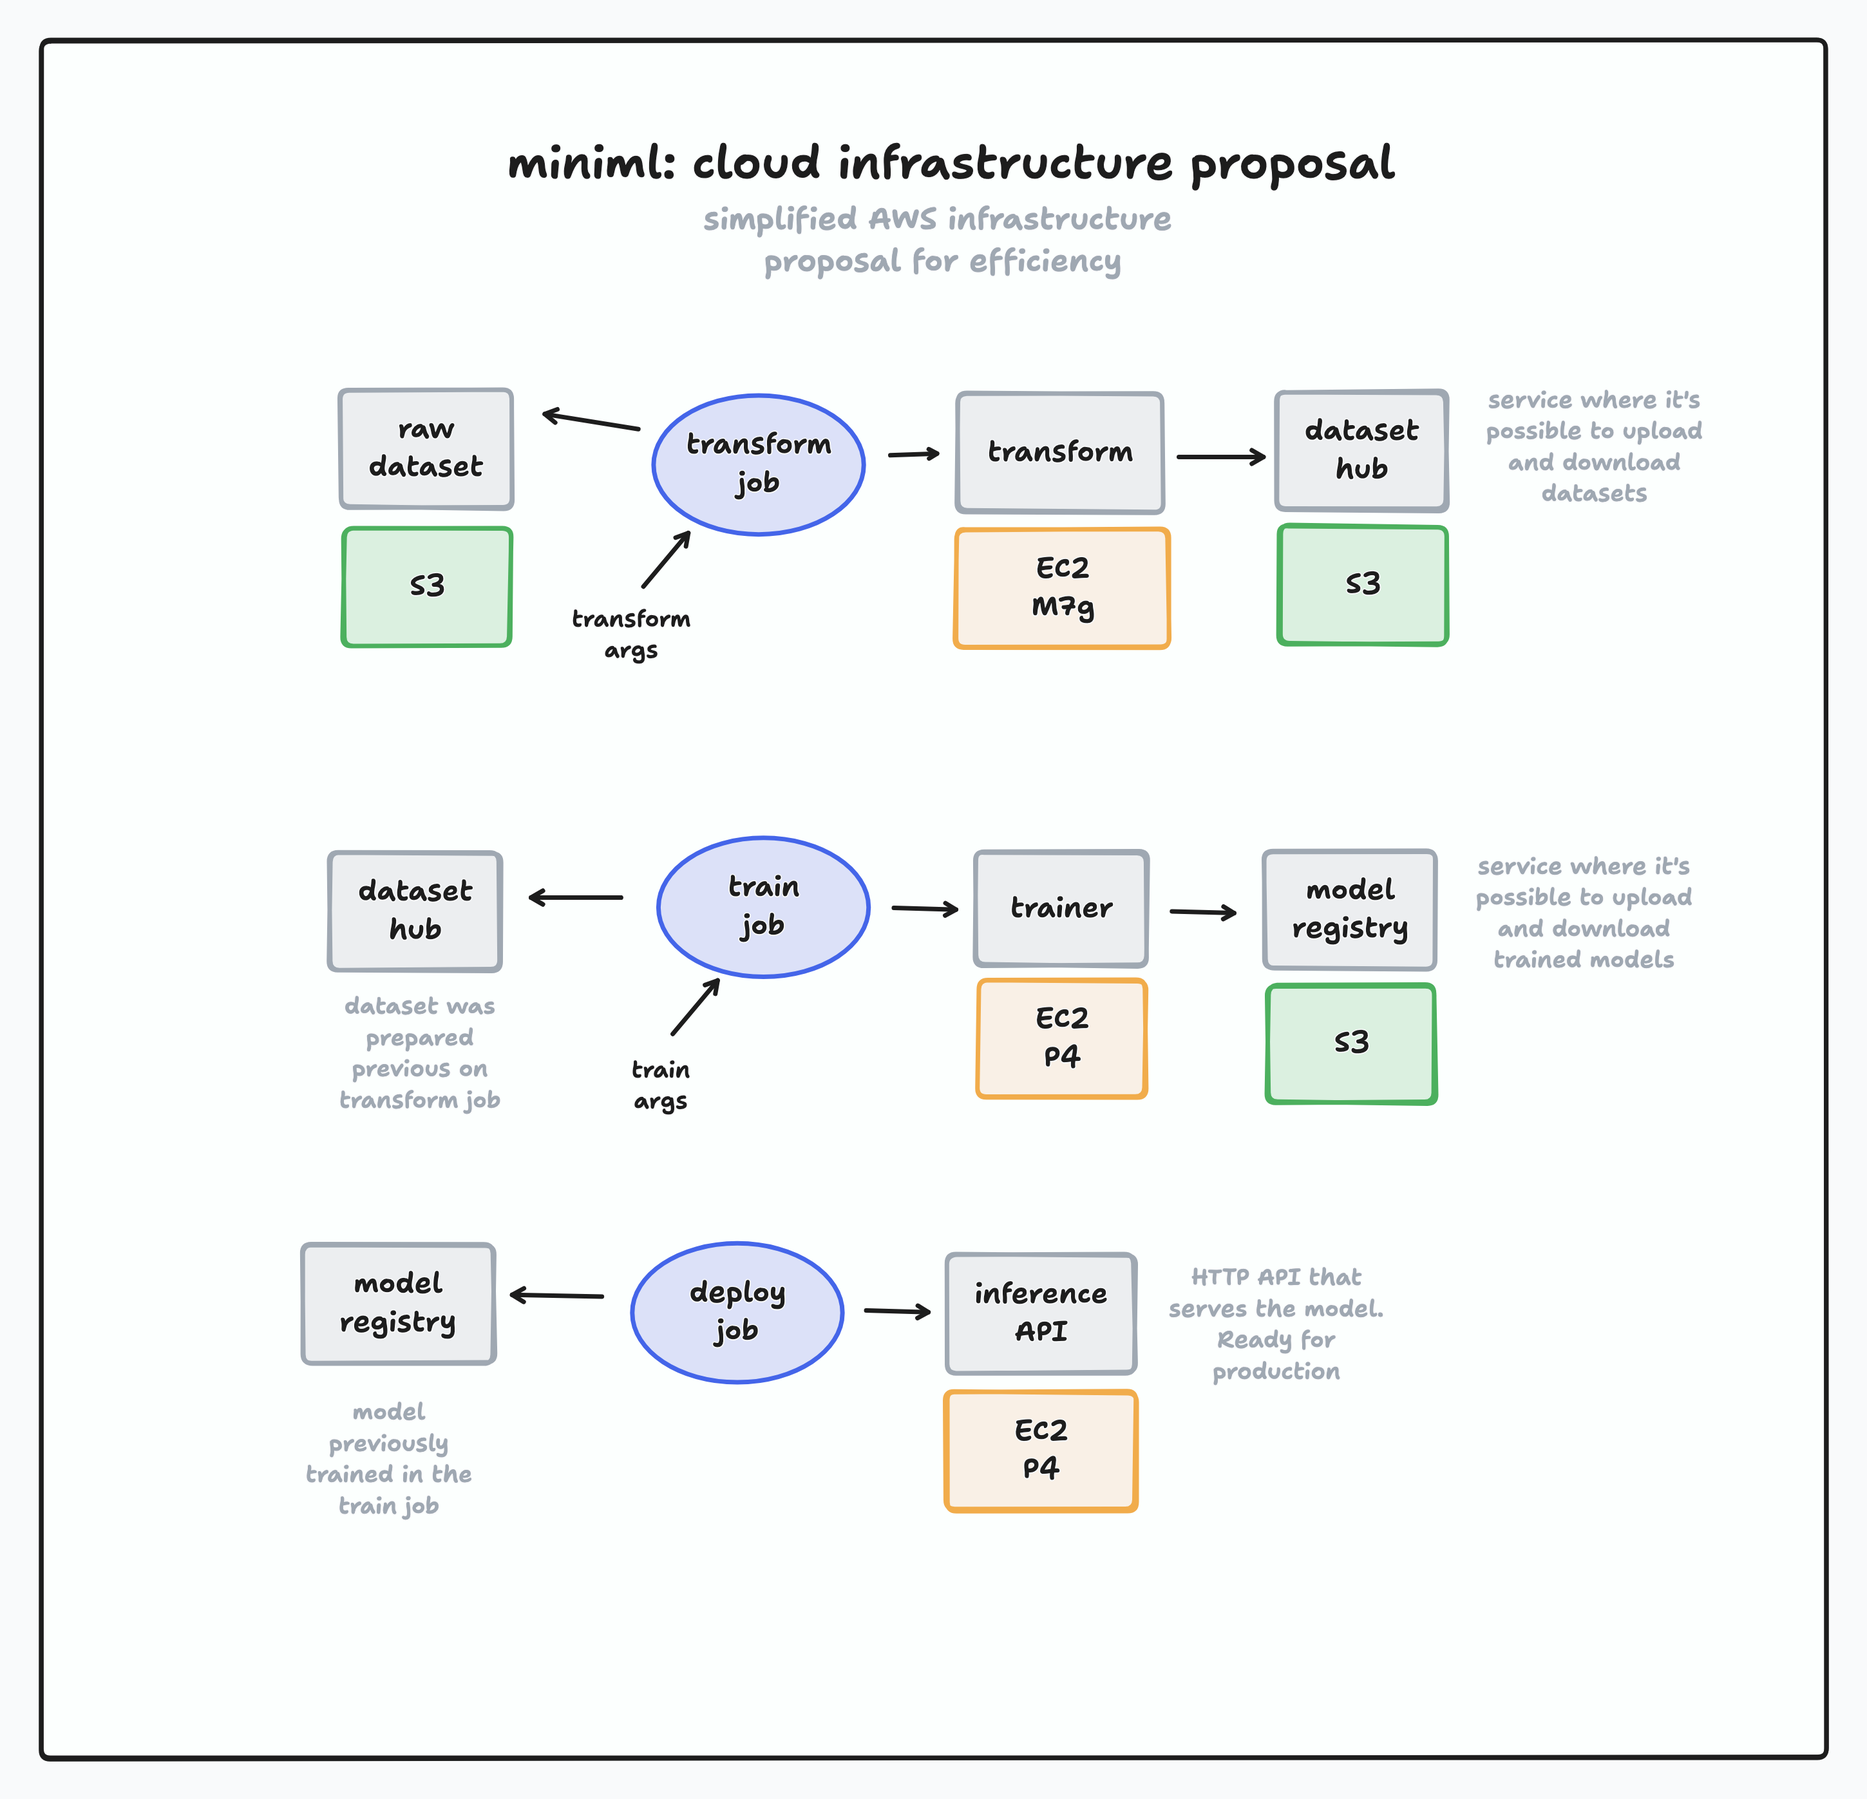
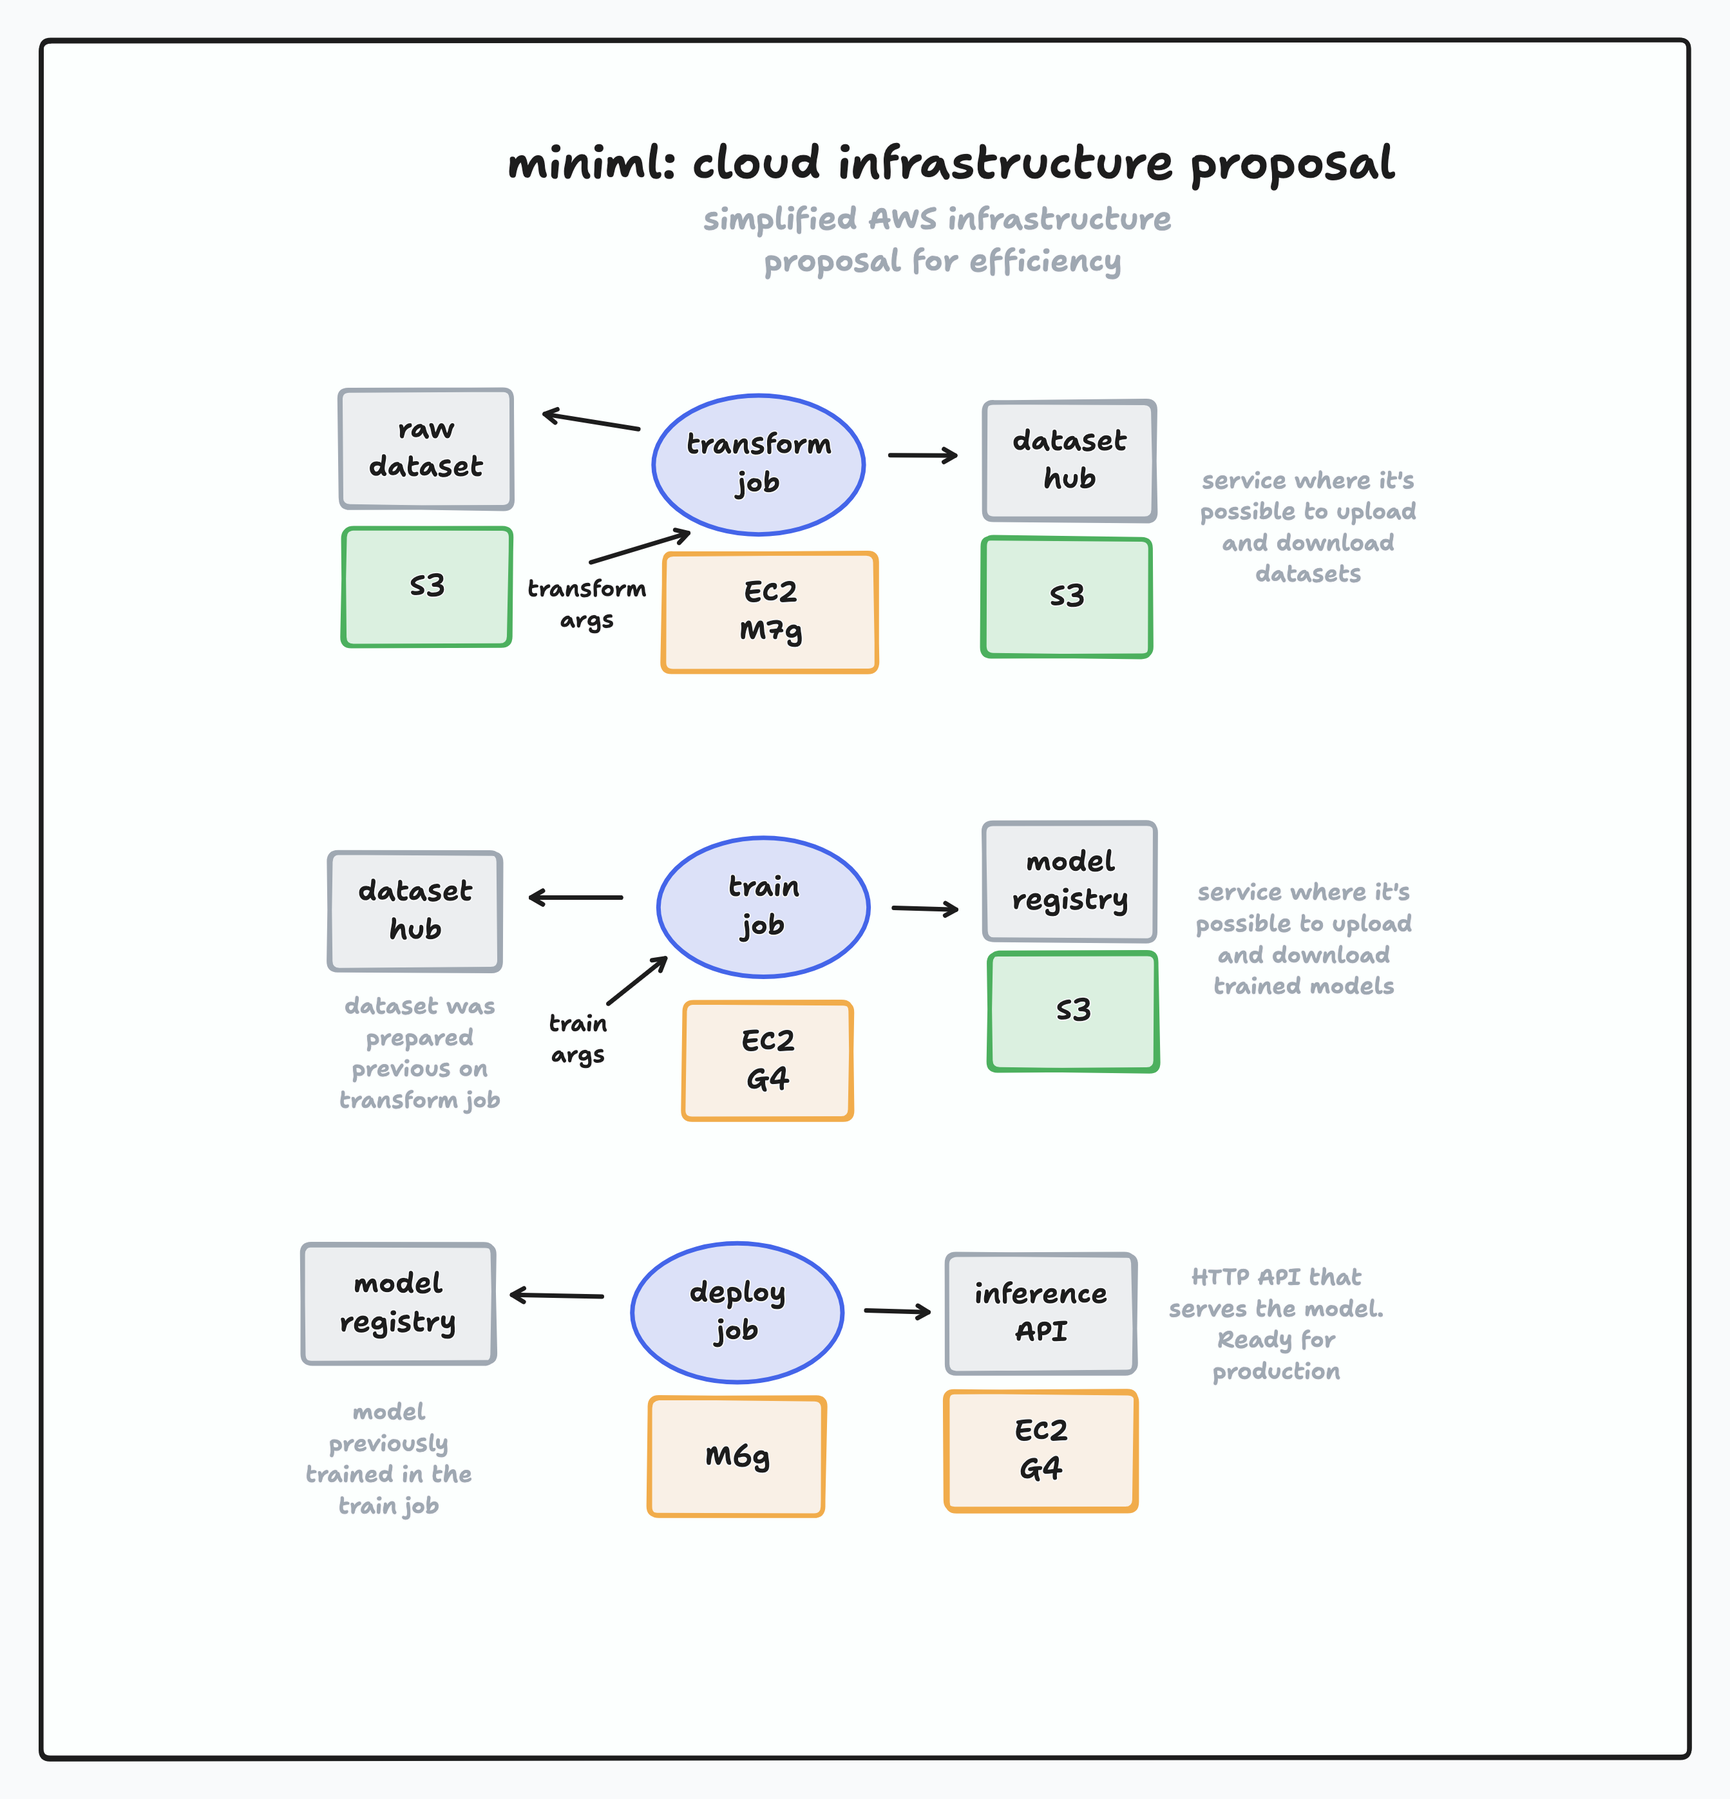
docs: improved README

diff --git a/README.md b/README.md
@@ -7,7 +7,7 @@ Challenge description can be found on `challenge.md`. The proposed platform/fram
 - **train**: train a model. Implemented in `train/` with the `train.yml` workflow.
 - **deploy**: model inference API deploy. Implemented in `api/` withe the `deploy.yml` workflow. 
 
-The example implemented to demonstrate this prototype is a fine tuning of the [google-bert/bert-base-cased"](https://huggingface.co/google-bert/bert-base-cased), an encoder-only transformer model, on the [Yelp/yelp_review_full](https://huggingface.co/datasets/Yelp/yelp_review_full) dataset. The model is trained with the task of sequence classification: given a written [Yelp](https://en.wikipedia.org/wiki/Yelp) review, predict the rate in number of stars from 1 to 5.
+The example implemented to demonstrate this prototype is a fine tuning of the [google-bert/bert-base-cased](https://huggingface.co/google-bert/bert-base-cased), an encoder-only transformer model, on the [Yelp/yelp_review_full](https://huggingface.co/datasets/Yelp/yelp_review_full) dataset. The model is trained with the task of sequence classification: given a written [Yelp](https://en.wikipedia.org/wiki/Yelp) review, predict the rate in number of stars from 1 to 5.
 
 - [iFood MLE3 Challenge](#ifood-mle3-challenge)
 - [miniml: the framework](#miniml-the-framework)
@@ -26,7 +26,7 @@ The example implemented to demonstrate this prototype is a fine tuning of the [g
 
 This is a one-stop-shop machine learning platform prototype, where it can be used to prepare datasets, train ML models and deploy inference APIs. The **miniml** platform is intended to be generic, so datasets, models, traning arguments and deploy adjustments can be set for any purpose.
 
-Still, since this is a **prototype** made in 4 days, many of these ideas are using simple solutions and where it's supposed to be generic and parametrized, it's not 100% working. All of these ideas were implemented using `transformers` and `fastapi` libs and GitHub Actions to perform the ML jobs. For the example implemented, the pipelines and code are working as expected.
+Still, since this is a **prototype** made in 4 days, many of these ideas are using simple solutions and where it's supposed to be generic and parametrized, it does not work for all the different possible parameters. All of these ideas were implemented using [transformers](https://huggingface.co/docs/transformers/en/index), [PyTorch](https://pytorch.org/) and [fastapi](https://fastapi.tiangolo.com/) libs, and, [GitHub Actions](https://docs.github.com/en/actions) to perform the ML jobs. For the example implemented, the pipelines and code are working as expected.
 
 ### transform
 
@@ -37,7 +37,7 @@ This job intends to, given raw data, transform into a dataset ready to be used f
 ### train
 
 This job intends to train a mode. The arguments determine which will be the base model to fine-tune, but an architecture from scratch could be implemented in the [code](./miniml/train/main.py). It downloads the most recent dataset previously trained and saved as an GitHub artifact in the `transform` job to perform the training. Evaluation of the model is also performed, but the implementation is not finished. The idea would be to export a report on the training, showing its resulted accuracy and training loss over time. The train job has the following arguments:
-- `model-id`: HuggingFace model ID. Defaults to `google-bert/bert-base-cased"`, which the task of [sequence classification] works.
+- `model-id`: HuggingFace model ID. Defaults to `google-bert/bert-base-cased`, which the task of [sequence classification] works.
 - `batch-size`: set the batch size for training. Defaults to `2`.
 - `iterations`: max iterations to perform training (there could also be an argument related to number of epochs, but since this job will run in a CPU and the model is large, unfortunately we have to restrain the training to few steps). Defaults to `200`
 - `device`: the `torch` device to run the training (`cuda`, `mps`...). Defaults to `cpu`.
@@ -46,7 +46,7 @@ The output of this jobs is the model (or weights) itself, saved as a GitHub arti
 
 ### deploy
 
-This job intends to deploy the model within an Inference API. The model is downloaded from the latest output of the `train` job. The model is then placed in a REST API implemented with `fastapi` for inference. For this protype, the job only builds and pushes the image into the repo's container registry, but it could easilly run in a container run engine like Google Cloud Run or even a Kubernetes cluster. I would place into Google Cloud Run, but for cost reasons, I decided to leave only in the free GitHub registry to be ran locally. It can be ran locally with:
+This job intends to deploy the model within an Inference API. The model is downloaded from the latest output of the `train` job. The model is then placed in a REST API [implemented](./miniml/api/) with `fastapi` for inference. For this protype, the job only builds and pushes the image into the repo's container registry, but it could easilly run in a container run engine like Google Cloud Run or even a Kubernetes cluster. I would place into Google Cloud Run, but for cost reasons, I decided to leave only in the free GitHub registry to be ran locally. It can be ran locally with:
 ```sh
 docker run -p 8000:8000 ghcr.io/paulopacitti/ifood-mle3-challenge/miniml-api:latest
 ```
@@ -59,27 +59,66 @@ There's also a version trained locally with MPS (Metal Perfomance Shaders) with 
 docker run -p 8000:8000 ghcr.io/paulopacitti/ifood-mle3-challenge/miniml-api:1000-steps
 ```
 
+Here are some examples of predictions done my this model:
+
+- Example #1:
+  - Request:
+  ```
+  curl -X 'POST' \
+  'http://0.0.0.0:8000/predict' \
+  -H 'accept: application/json' \
+  -H 'Content-Type: application/json' \
+  -d '{
+    "text": "First off, let me say that I find the people who usually work at Dave and busters usually don'\''t care or seem to be angry and hate their job. A friend and I went here and found that a couple of the machines ran out tickets and someone was always there and happy to help. The staff went out of their way to make sure we had a good time. The manager Tony was very sweet and made sure everything was ok. Every staff member we talked to was extremely nice. This is by far the best Dave and busters I'\''ve had been to!"
+  }'
+  ```
+  - Response:
+  ```
+  {
+    "label": "5",
+    "score": 0.9986338019371033
+  }
+  ```
+- Example #2:
+  - Request:
+  ```
+  curl -X 'POST' \
+  'http://0.0.0.0:8000/predict' \
+  -H 'accept: application/json' \
+  -H 'Content-Type: application/json' \
+  -d '{
+    "text": "Good pizza and i love the breadsticks...i don'\''t know too much else about this place"
+  }'
+  ```
+  - Response:
+  ```
+  {
+    "label": "3",
+    "score": 0.9985559582710266
+  }
+  ```
+
 ## cloud: AWS infrastructure proposal for miniml
 
 ![](/docs/aws.png)
 
-Even that iFood uses the SageMaker product, I tried to propose a different vision tied to a future where ML at iFood will deploy their own infrastructure to be able to scale more and to be more cost efficient. Because of this, I chose to use more raw compute services like EC2 and simpler services, imagining a scenario where this first prototype needs to be deployed quickly.
+Even that iFood uses the [SageMaker](https://aws.amazon.com/sagemaker/) product, I tried to propose a different vision tied to a future where ML at iFood will deploy their own infrastructure to be able to scale more and to be more cost efficient. Because of this, I chose to use more raw compute services like EC2 and simpler services, imagining a scenario where this first prototype needs to be deployed quickly.
 
 ### transform
 
-On the infrastructure, this job could be implemented as triggered compute job in a general-purpose or memory EC2 to transform data. One suggestion would be using the M7g instances with the Amazon Graviton 3, which has great performance at a low cost, partially because of its ARM architecture (where iFood have been trying and havong good cost resutls). The transform job would accept its parametes just as briefly described in the protoype with GitHub Actions, and also the raw data itself, which could be stored in S3.
+On the infrastructure, this job could be implemented as triggered compute job in a general-purpose or memory EC2 to transform data. One suggestion would be using the [M7g instances](https://aws.amazon.com/ec2/instance-types/m7g/) with the AWS Graviton 3, which has great performance at a low cost, partially because of its ARM architecture (where iFood have been trying and havong good cost resutls). The transform job would accept its parametes just as briefly described in the protoype with GitHub Actions, and also the raw data itself, which could be stored in [S3](https://aws.amazon.com/s3/).
 
 After the data is transformed and the dataset is generated, the job could post it into a service, as is called in the diagram, "dataset hub". This dataset hub would manage the datasets stored in a S3, allowing uploading and downloading datasets, for training models, for example. This service could be implemented in any language (Go, for example, since it's a great language to build web services) and it shouldn't be so complex to implement it. This "dataset hub" can be deployed in a general-purpose node in iFood's Kubernetes infrastructure since it's a simple web service.
 
 ### train
 
-For training, this can run in a EC2 instance with a GPU powerful enough to train the majority of models inside iFood. I suggested using the P4 EC2 instance, with NVidia T4 chips. The job itself downloads the model from the previously mentioned "dataset hub" and accept the training arguments for the selected training. 
+For training, this can run in a EC2 instance with a GPU powerful enough to train the majority of models inside iFood. To be more cost effective, the [Trn1 instances](https://aws.amazon.com/ec2/instance-types/trn1/) with the custom AWS Trainium chips for ML workloads could help a lot, however, their software support with the [Neuron SDK](https://awsdocs-neuron.readthedocs-hosted.com/en/latest/) is not comparable to Nvidia's CUDA. Because of this, I suggested using the [G4 instances](https://aws.amazon.com/ec2/instance-types/g4/), with [Nvidia T4 chips](https://www.nvidia.com/en-us/data-center/tesla-t4/). which are cost-effective. The job itself downloads the model from the previously mentioned "dataset hub" and accept the training arguments for the selected training. 
 
 Once the training finishes, it should generate a report of the training and then save the model in a service called "model registry". Using S3 as storage, the "model registry" is reponsible on managing models (upload/download), to be later used for fine-tuning workdloads or for inference. Saving the model in the right format to protect against attacks such as weight poisoning is crucial. The "model registry" can be deployed in a general-purpose node in iFood's Kubernetes infrastructure since it's a simple web service.
 
 ### deploy
 
-The deploy job can run in a general-purpose instance (do not need to be powerful) like the suggested M7g or even M6g with Amazon Graviton 2, since it's only role is to build an image, push it to the registry and trigger a new deploy. This can be done by loading the model from the "model registry". put it in a docker image containing the API code, push it to the registry (it can be AWS ECS), and then trigger the deploy of the API that will serve the model. This API can be run in a EC2 instante with a GPU, like the suggested P4, for faster inference. The next section will describe a simple architecture on how a Inference API could be architected.
+The deploy job can run in a general-purpose instance (do not need to be powerful) like the suggested M7g or even [M6g](https://aws.amazon.com/ec2/instance-types/m6g/) with Amazon Graviton 2, since it's only role is to build an image, push it to the registry and trigger a new deploy. This can be done by loading the model from the "model registry". put it in a docker image containing the API code, push it to the registry (it can be [AWS ECR](https://aws.amazon.com/ecr/)), and then trigger the deploy of the API that will serve the model. This API can be run in a EC2 instance with a GPU, like the suggested G4, for faster inference. The next section will describe a simple architecture on how a Inference API could be architected.
 
 #### Inference API
 
@@ -87,9 +126,9 @@ The deploy job can run in a general-purpose instance (do not need to be powerful
 
 Not so different from the API code implemented in this repo, a Python (the most supported programming language to do ML, since most tensor libraries are built with it) web service with FastAPI and PyTorch to serve it is enough. FastAPI really do a great job on building an API that can scale.
 
-The service could be optimized by attaching it in-memory database for caching, like ElastiCache. That way, previous requests with the same parameters, or, close enough parameters (to be defined custom for the model served), should returned the previously cached prediction. A proper cache TTL should be set so the predictions are not "expired" and inform wrongly to the user.
+The service could be optimized by attaching it in-memory database for caching, like [ElastiCache](https://aws.amazon.com/elasticache/). That way, previous requests with the same parameters, or, close enough parameters (to be defined custom for the model served), should returned the previously cached prediction. A proper cache TTL should be set so the predictions are not "expired" and inform wrongly to the user.
 
-This service can be hosted in iFood's Kubernetes infrastructure, but on a node that has a GPU powerful enough to serve the load of inferences requested. Kubernetes has many features that its abstraction layer provides, such as horizontal scaling, load balancing and restarting services that are crashing. In this proposal I suggested using the EC2 P4, but it could be the best that suit the job. In Kubernetes, the Inference API could scale horizontally with the proper HPA (Horizontal Pod Autoscaling) config. To serve better, attaching a Istio service, as iFood is enforcing, is super useful since it can be attached in the service mesh for service discovering as well rate limiting configs.
+This service can be hosted in iFood's Kubernetes infrastructure, but on a node that has a GPU powerful enough to serve the load of inferences requested. Kubernetes has many features that its abstraction layer provides, such as horizontal scaling, load balancing and restarting services that are crashing. In this proposal I suggested using the EC2 P4, but it could be the best that suit the job. In Kubernetes, the Inference API could scale horizontally with the proper HPA (Horizontal Pod Autoscaling) config. To serve better, attaching a [Istio](https://istio.io/) service, as iFood is enforcing, is super useful since it can be attached in the service mesh for service discovering as well rate limiting configs.
 
 ## Bonus
 
